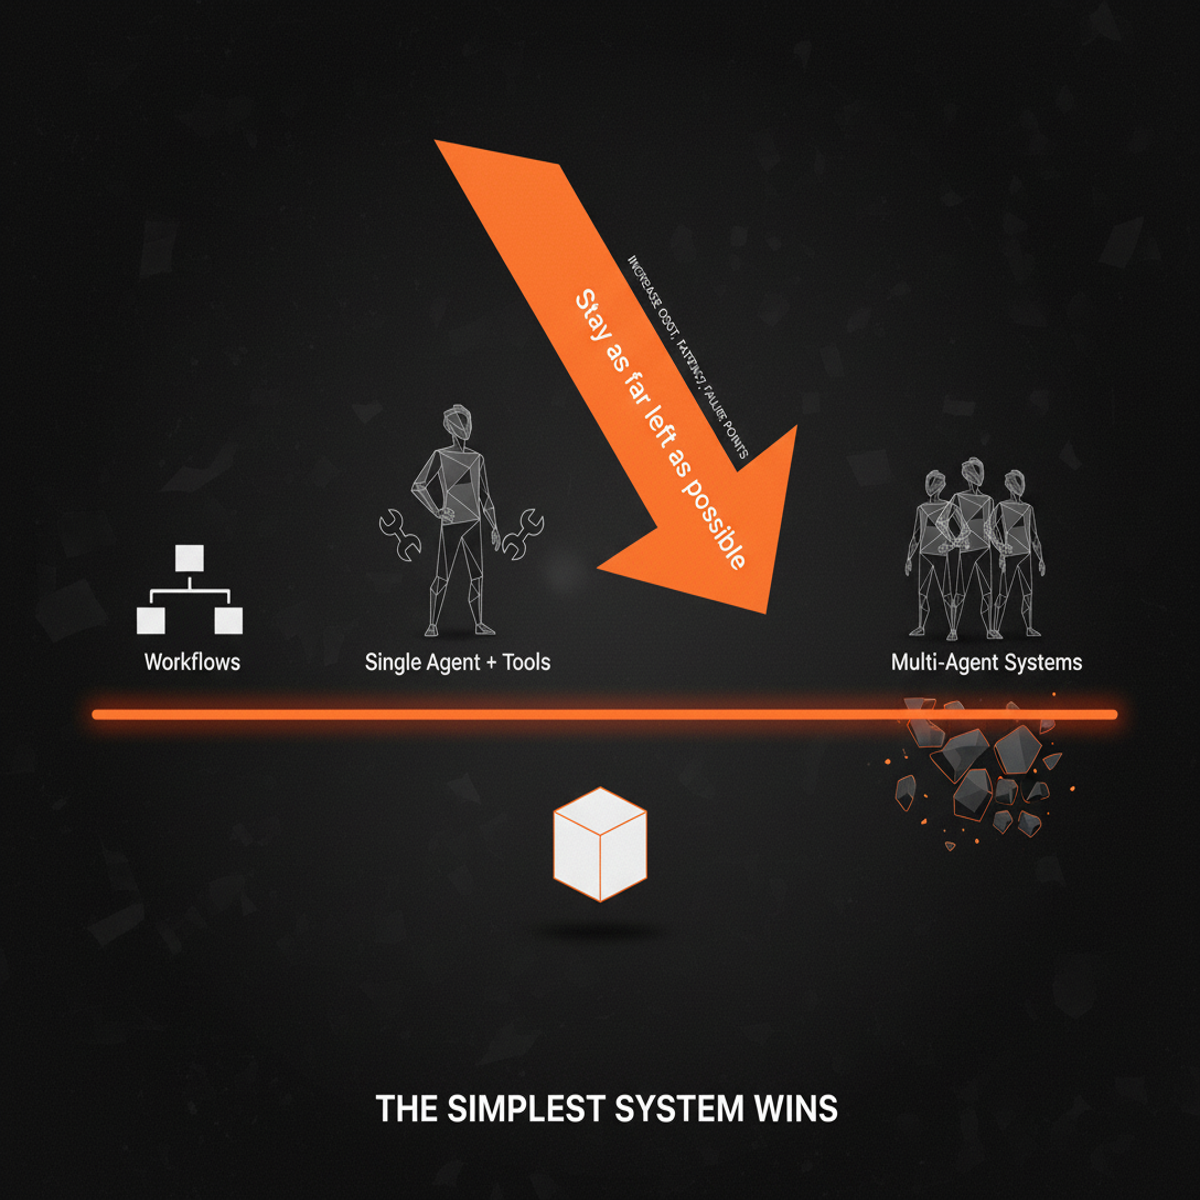
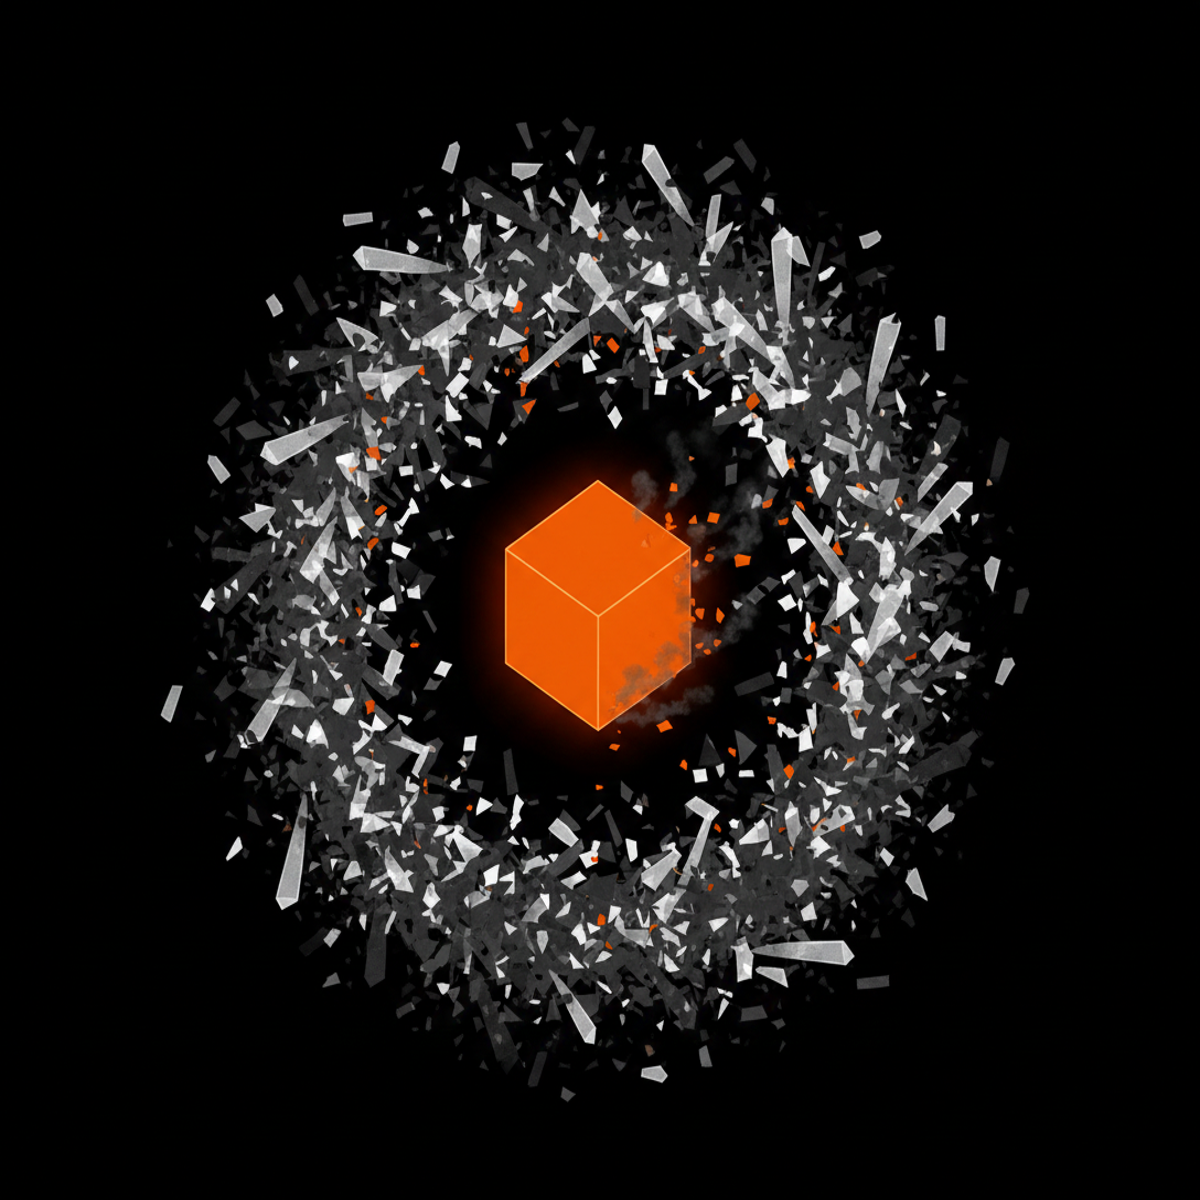
docs: Update from-12-agents-to-1 example posts

diff --git a/examples/from-12-agents-to-1/post_2.md b/examples/from-12-agents-to-1/post_2.md
@@ -1,42 +1,37 @@
-We planned 12 AI agents and shipped 1. It worked better.
+A team I helped planned to ship 12 agents for a marketing app.
+They wanted an "agentic army" for every tiny task.
 
-Sounds crazy, right? But it’s a common story.
+They thought more agents meant more intelligence.
+Instead, they built an unmaintainable mess.
 
-A client wanted an AI chatbot for marketing content: emails, SMS, promos. Their initial design had dozens of specialized agents: orchestrator, analyzers, validators, spam prevention.
+We replaced all 12 with a single agent using smart tools.
+It worked better, ran faster, and was 10x easier to debug.
 
-In practice? A single agent with tools won. Its tasks were tightly coupled and sequential.
-Splitting it created information silos and handoff errors.
-One brain maintained context, made decisions. Tools were still specialized.
+In AI engineering, complexity is a trap.
+Think of it as a **spectrum of autonomy**:
 
-This is the core mistake. People jump to complex multi-agent setups too fast.
+𝟭/ 𝗪𝗼𝗿𝗸𝗳𝗹𝗼𝘄𝘀: You define every step.
+𝟮/ 𝗦𝗶𝗻𝗴𝗹𝗲 𝗔𝗴𝗲𝗻𝘁: The model picks the tools.
+𝟯/ 𝗠𝘂𝗹𝘁𝗶-𝗔𝗴𝗲𝗻𝘁: Multiple decision-makers coordinate.
 
-Think of AI system design as a spectrum:
-*   Workflows: You control every step.
-*   Single Agent + Tools: Model decides the flow.
-*   Multi-Agent: Multiple decision-makers coordinate.
+Stay as far left as possible.
+Every step to the right adds lag, cost, and failure points.
 
-**Stay as far left as possible.** Move right only when forced.
-Each step right increases cost, latency, and debugging complexity.
-More LLM calls mean more tokens and more failure points.
+The biggest killer is **context rot**.
+When you pack 20+ tools into one prompt, models suffer from "loss in the middle" attention patterns.
+The LLM ignores details buried in the center and picks the wrong tools.
 
-A single agent with tools works for most cases. But it has limits.
-Too many tools? You hit "context rot."
-Past ~10-20 tools, LLMs degrade at tool selection. They get overwhelmed.
-Information gets lost in the middle.
+Only move to Level 3 for these 4 reasons:
+• True parallelism
+• Context overload
+• Third-party modularity
+• Hard security boundaries
 
-So, when do you actually need multi-agent?
-**Only 4 valid reasons:**
-1.  True Parallelism: Tasks are genuinely independent.
-2.  Context Overload: Single agent context is too packed.
-3.  Modularity: You need reusable or third-party agent systems.
-4.  Security Boundaries: Strict data isolation or compliance.
+If your tasks are sequential, stick to one agent.
+One brain with a full view beats five agents playing telephone.
 
-We built an article generator. We started with one agent for research and writing. It broke.
-Research is exploratory. Writing is constrained.
-We needed two agents with a clear handoff. Each had its own lean, focused context.
+**The simplest system that reliably solves the problem is the best system.**
 
-**The simplest system that reliably solves the problem is always the best system.**
+Stop building for your pitch deck. Start building for production.
 
-Don't overengineer your AI agents. Build simple first.
-
-What's the most complex agent architecture you've simplified? Tell me below.
+Have you ever regretted overengineering an AI system?

diff --git a/examples/from-12-agents-to-1/post_0.md b/examples/from-12-agents-to-1/post_0.md
@@ -1,33 +1,45 @@
-We planned 12 AI agents. We shipped 1.
+A team I worked with planned to ship 12 specialized agents for their marketing platform.
 
-Sounds crazy, right? But it's a common story.
+They wanted an army of bots: one for email, one for SMS, one for spam checking.
 
-A client wanted an AI chatbot for marketing content: emails, SMS, promos. Their initial design had dozens of specialized agents: orchestrator, analyzers, validators, spam prevention.
+They thought more agents meant more intelligence.
+Instead, they built a coordination nightmare.
 
-In practice? A single agent with tools won. Tasks were tightly coupled, sequential. Splitting it created information silos and handoff errors. One brain maintained context, made decisions. Tools were still specialized.
+We replaced the 12 agents with a single agent using smart tools.
+It worked better, it was faster, and it was 10x easier to debug.
 
-This is the core mistake. People jump to complex multi-agent setups too fast.
+In AI engineering, we often mistake complexity for capability.
+But simplicity is what actually ships.
 
-Think of AI system design as a spectrum:
-*   Workflows: You control every step.
-*   Single Agent + Tools: Model decides the flow.
-*   Multi-Agent: Multiple decision-makers coordinate.
+Think of it as a **complexity spectrum**:
 
-**Stay as far left as possible.** Move right only when forced. Each step right increases cost, latency, debugging, and failure points. More LLM calls mean more tokens, more traces.
+𝟭/ 𝗪𝗼𝗿𝗸𝗳𝗹𝗼𝘄𝘀: You define every step.
+𝟮/ 𝗦𝗶𝗻𝗴𝗹𝗲 𝗔𝗴𝗲𝗻𝘁: The model chooses the tools.
+𝟯/ 𝗠𝘂𝗹𝘁𝗶-𝗮𝗴𝗲𝗻𝘁: Multiple models talk to each other.
 
-A single agent with tools works for most cases. But it has limits. Too many tools? You hit "context rot." Past ~10-20 tools, LLMs degrade at tool selection. They get overwhelmed. Information gets lost in the middle.
+Your job is to stay as far left as possible.
 
-So, when do you actually need multi-agent?
-Only 4 valid reasons:
-1.  **True Parallelism**: Tasks are genuinely independent.
-2.  **Context Overload**: Single agent context is too packed.
-3.  **Modularity**: You need reusable or third-party agent systems.
-4.  **Security Boundaries**: Strict data isolation or compliance.
+Most teams jump to Level 3 because it looks cool on a whiteboard.
+But every step to the right adds latency, cost, and failure points.
 
-We built an article generator. We started with one agent for research and writing. It broke. Research is exploratory. Writing is constrained. We needed two agents with a clear handoff. Each had its own lean, focused context.
+One of the biggest killers is **context rot**.
 
-**The simplest system that reliably solves the problem is always the best system.**
+LLMs suffer from "loss in the middle" attention patterns.
+When you give an agent 20+ tools, it gets overwhelmed.
+Tool selection fails and accuracy drops because the model loses focus.
 
-Don't overengineer your AI agents. Build simple first.
+You only move to multi-agent if you have a real reason:
 
-What's the most complex agent architecture you've simplified? Tell me below.
+• True parallelism (independent tasks running at once)
+• Context overload (too much info for one model window)
+• Modularity (integrating third-party agents)
+• Security boundaries (strict data isolation)
+
+If your tasks are sequential, stick to one agent.
+One brain with a global view is better than five agents playing telephone.
+
+**The simplest system that reliably solves the problem is the best system.**
+
+Stop building for your pitch deck and start building for production.
+
+Have you ever regretted overengineering an AI architecture?

diff --git a/examples/from-12-agents-to-1/post_3.md b/examples/from-12-agents-to-1/post_3.md
@@ -1,38 +1,36 @@
-We planned 12 AI agents and shipped 1. It worked better.
-Sounds crazy, right? But it's a common story.
+A team I helped planned to ship 12 agents for a marketing app.
+They wanted an "agentic army" for every tiny task.
 
-A client built an AI marketing chatbot. Their initial design had dozens of agents: orchestrator, validators, spam prevention. It failed.
+They thought more agents meant more intelligence.
+Instead, they built an unmaintainable mess.
 
-A single agent with tools won. Tasks were tightly coupled. One brain maintained context. Tools were still specialized.
+We replaced all 12 with a single agent using smart tools.
+It worked better, ran faster, and was 10x easier to debug.
 
-This is the core mistake. People jump to complex multi-agent setups too fast.
+In AI engineering, complexity is a trap.
+Think of it as a **spectrum of autonomy**:
+1. Workflows: You define every step.
+2. Single Agent: The model picks the tools.
+3. Multi-Agent: Multiple decision-makers coordinate.
 
-Think AI system design as a spectrum:
-*   Workflows: You control steps.
-*   Single Agent + Tools: Model decides flow.
-*   Multi-Agent: Multiple decision-makers.
+Stay as far left as possible.
+Every step to the right adds lag, cost, and failure points.
 
-**Stay as far left as possible.** Move right only when forced.
-Each step right increases cost, latency, and debugging. More LLM calls mean more tokens and more failure points.
+The biggest killer is **context rot**.
+When you pack 20+ tools into one prompt, models suffer from "loss in the middle" attention patterns.
+The LLM ignores details buried in the center and picks the wrong tools.
 
-A single agent works for most cases. But it has limits.
-Too many tools? You hit "context rot."
-Past ~10-20 tools, LLMs degrade at tool selection. They get overwhelmed. Information gets lost in the middle.
+Only move to multi-agent for these 4 reasons:
+- True parallelism
+- Context overload
+- Third-party modularity
+- Hard security boundaries
 
-So, when do you actually need multi-agent?
-**Only 4 valid reasons:**
-1.  True Parallelism: Tasks are independent.
-2.  Context Overload: Single agent context is packed.
-3.  Modularity: Reusable or third-party agents.
-4.  Security Boundaries: Strict data isolation.
+If your tasks are sequential, stick to one agent.
+One brain with a full view beats five agents playing telephone.
 
-We built an article generator. We started with one agent for research and writing. It broke.
+**The simplest system that reliably solves the problem is the best system.**
 
-Research is exploratory. Writing is constrained.
+Stop building for your pitch deck. Start building for production.
 
-We needed two agents with a clear handoff. Each had its own lean, focused context.
-
-**The simplest system that reliably solves the problem is always the best system.**
-Don't overengineer your AI agents. Build simple first.
-
-What's the most complex agent architecture you've simplified? Tell me below.
+Have you ever regretted overengineering an AI system?

diff --git a/examples/from-12-agents-to-1/post_1.md b/examples/from-12-agents-to-1/post_1.md
@@ -1,33 +1,40 @@
-We planned 12 AI agents. We shipped 1. It worked better.
+A team I helped once planned to ship 12 agents for a marketing app.
+They wanted an army: one for email, one for SMS, one for spam checking.
 
-Sounds crazy, right? But it's a common story.
+They thought more agents meant more brain power.
+Instead, they built a big mess.
 
-A client wanted an AI chatbot for marketing content: emails, SMS, promos. Their initial design had dozens of specialized agents: orchestrator, analyzers, validators, spam prevention.
+We replaced all 12 agents with one agent using smart tools.
+It worked better, ran faster, and was 10x easier to fix.
 
-In practice? A single agent with tools won. Its tasks were tightly coupled and sequential. Splitting it created information silos and handoff errors. One brain maintained context, made decisions. Tools were still specialized.
+In AI engineering, complexity is a trap.
+Simplicity is what actually ships.
 
-This is the core mistake. People jump to complex multi-agent setups too fast.
+Think of it as a **line of complexity**.
+Level 1 is a workflow where you define every step yourself.
+Level 2 is one agent where the model picks the tools to use.
+Level 3 is multi-agent where different models talk to each other.
 
-Think of AI system design as a spectrum:
-*   Workflows: You control every step.
-*   Single Agent + Tools: Model decides the flow.
-*   Multi-Agent: Multiple decision-makers coordinate.
+Stay as far left as possible.
 
-**Stay as far left as possible.** Move right only when forced. Each step right increases cost, latency, debugging, and failure points. More LLM calls mean more tokens, more traces.
+Most teams jump to Level 3 because it looks cool on a whiteboard.
+But every step to the right adds lag, cost, and more ways to fail.
 
-A single agent with tools works for most cases. But it has limits. Too many tools? You hit "context rot." Past ~10-20 tools, LLMs degrade at tool selection. They get overwhelmed. Information gets lost in the middle.
+The biggest killer is **context rot**.
+Models struggle to focus when you give them too much to remember.
+If you give one agent 20 tools, it gets overwhelmed.
+The model loses focus and starts picking the wrong ones.
 
-So, when do you actually need multi-agent?
-Only 4 valid reasons:
-1.  True Parallelism: Tasks are genuinely independent.
-2.  Context Overload: Single agent context is too packed.
-3.  Modularity: You need reusable or third-party agent systems.
-4.  Security Boundaries: Strict data isolation or compliance.
+Only move to multiple agents if you have a real reason.
+Maybe you need to run many tasks at the same time to save time.
+Perhaps you have so much info that one model gets confused.
+Or you might need to keep data locked in separate boxes for security.
 
-We built an article generator. We started with one agent for research and writing. It broke. Research is exploratory. Writing is constrained. We needed two agents with a clear handoff. Each had its own lean, focused context.
+If your tasks happen one after the other, stick to one agent.
+One brain with a full view is better than five agents playing telephone.
 
-**The simplest system that reliably solves the problem is always the best system.**
+**The simplest system that solves the problem is the best system.**
 
-Don't overengineer your AI agents. Build simple first.
+Stop building for your pitch deck. Start building for production.
 
-What's the most complex agent architecture you've simplified? Tell me below.
+Have you ever regretted overengineering an AI system?